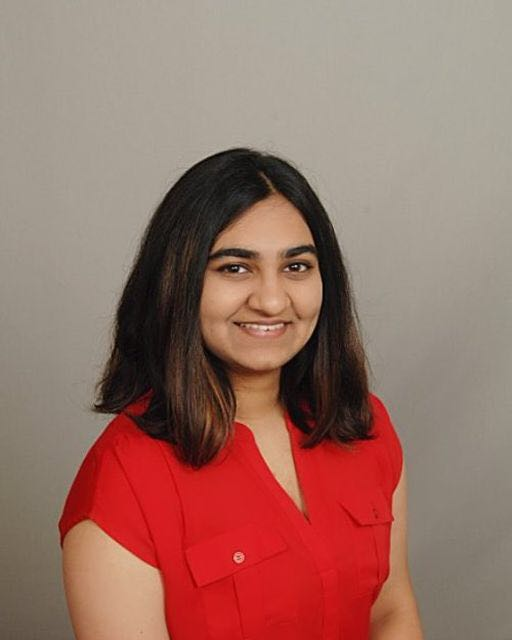
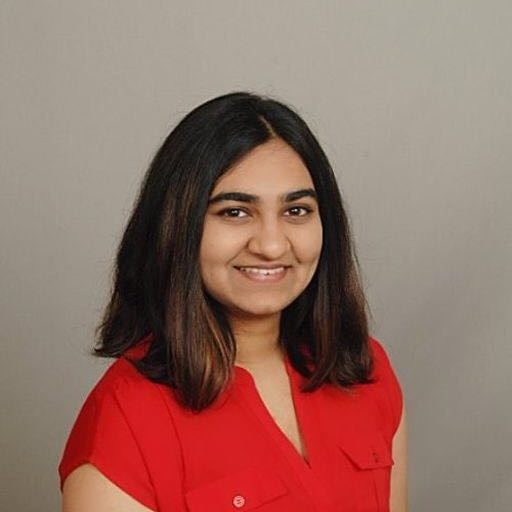
Updating PARTIEEE officer for 2018 (#134)

diff --git a/partieee/index.php b/partieee/index.php
@@ -32,15 +32,27 @@
         include 'navigation.php';
     ?>
     <div class="well card-1 text-light">
-
         <div class="row text-center">
             <h1 id="mission">Mission</h1>
             <hr />
-			<p>The Purdue Aerial Robotics Team IEEE was founded back in 1996 as a committee within the Purdue IEEE Student Organization. The team's mission is to create an Unmanned Aerial System (UAS) to compete in the Association for Unmanned Vehicle Systems International Student Unmanned Air Systems (AUVSI SUAS) Competition. This competition will take place in Webster Field, Maryland in 2018. The team, consisting of AeroMechanical, Electrical, and Software sub-teams, develops a comprehensive system that performs various autonomous tasks.
+			<p>The Purdue Aerial Robotics Team IEEE was founded back in 1996 as a committee within the Purdue IEEE
+                Student Organization. The team's mission is to create an Unmanned Aerial System (UAS) to compete in the
+                Association for Unmanned Vehicle Systems International Student Unmanned Air Systems (AUVSI SUAS)
+                Competition. This competition will take place in Webster Field, Maryland in 2018. The team, consisting
+                of AeroMechanical, Electrical, and Software sub-teams, develops a comprehensive system that performs
+                various autonomous tasks.
 			<br /><br />
-			The Aerial Robotics Team consists of both engineering and non-engineering focuses. The engineering goals are to create mathematical and physical models, construct prototypes, and develop a final, mission-ready system. The non-engineering goals are to develop relationships with companies, encourage a collaborative work environment, communicate effectively with team members, and provide learning opportunities for students of any discipline and experience level. Achieving these goals will help us develop a UAS that meets the rigorous standards demanded by the competition, in order to succeed as a team.
+			The Aerial Robotics Team consists of both engineering and non-engineering focuses. The engineering goals are
+                to create mathematical and physical models, construct prototypes, and develop a final, mission-ready
+                system. The non-engineering goals are to develop relationships with companies, encourage a collaborative
+                work environment, communicate effectively with team members, and provide learning opportunities for
+                students of any discipline and experience level. Achieving these goals will help us develop a UAS that
+                meets the rigorous standards demanded by the competition, in order to succeed as a team.
 			<br /><br />
-			Purdue Aerial Robotics Team prides itself on its student leadership, perseverance, and desire to excel in all frontiers. Furthermore, team members are constantly striving to learn the technical skills necessary to bring the design to fruition, including 3D-modeling in SolidWorks and CATIA V5, designing the PCB in Eagle Pro, and programming in C, C++, Python, and JavaScript. 
+			Purdue Aerial Robotics Team prides itself on its student leadership, perseverance, and desire to excel in
+                all frontiers. Furthermore, team members are constantly striving to learn the technical skills necessary
+                to bring the design to fruition, including 3D-modeling in SolidWorks and CATIA V5, designing the PCB in
+                Eagle Pro, and programming in C, C++, Python, and JavaScript.
 			</p>
         </div>
     </div>
@@ -50,10 +62,10 @@
             <hr />
             <div class="row text-center">
                 <!--Ellie-->
-                <img src="images/ellie-topi.jpg" alt= "" class="img-circle" width=250px height=250px />
-                <h4>Ellie Topi</h4>
+                <img src="../images/officers/2018_Bidare_Milan.jpg" alt= "" class="img-circle" width=250px height=250px />
+                <h4>Milan Bidare</h4>
                 <p>Captain</p>
-                <p><a href="mailto:etopi@purdue.edu"> etopi@purdue.edu</a><br /></p>
+                <p><a href="mailto:mbidare@purdue.edu">mbidare@purdue.edu</a><br /></p>
             </div>
         </div>
     </div>

diff --git a/partieee/about.php b/partieee/about.php
@@ -23,56 +23,36 @@
                 <h1 id="officers">Officers</h1>
                 <hr />
                 <div class="row">
-                    <!--Ellie-->
                     <div class= "col-md-4">
-                        <h4>Ellie Topi</h4>
+                        <h4>Milan Bidare</h4>
                         <p>Captain<br /><br /></p>
                     </div>
-                    <!--Erik-->
-                        <div class= "col-md-4">
-                        <h4>Erik VanderWerf</h4>
-                        <p>Vice-Captain<br /> <br /></p>
-                    </div>
-                    <!--Anthony-->
                     <div class= "col-md-4">
-                        <h4>Anthony Goeckner</h4>
+                        <h4>Mark Benati</h4>
                         <p>Vice-Captain<br /><br /></p>
+                    </div>
+                    <div class="col-md-4">
+                        <h4>Humza Nasir</h4>
+                        <p>Project Lead<br /><br /></p>
                     </div>
                 </div>
                 <br />
                 <div class="row">
-                    <!-- Milan -->
                     <div class= "col-md-4">
-                        <h4>Milan Bidare</h4>
+                        <h4>Jacob Cottrell</h4>
                         <p>Sponsorship Coordinator<br /><br /></p>
                     </div>
-                    <!--Patrick-->
-                    <div class= "col-md-4">
-                        <h4>Patrick May</h4>
-                        <p>Electrical Co-Lead<br /><br /></p>
-                    </div>
-                    <!--Brian-->
                     <div class= "col-md-4">
                         <h4>Brian Helfrecht</h4>
-                        <p>Electrical Co-Lead<br /><br /></p>
+                        <p>Electrical Lead<br /><br /></p>
                     </div>
-                </div>
-                    <br />
-                <div class="row">
-                    <!--Mark -->
-                        <div class= "col-md-4">
-                        <h4>Mark Benati </h4>
+                    <div class= "col-md-4">
+                        <h4>Chris Jovanovic</h4>
                         <p>Software Lead<br /><br /></p>
                     </div>
-                    <!--Landon-->
-                        <div class= "col-md-4">
-                        <h4>Landon Glunt</h4>
-                        <p>AeroMechanical Co-Lead<br /><br /></p>
-                    </div>
-                    <!--George Xu-->
                     <div class= "col-md-4">
-                        <h4>George Xu</h4>
-                        <p>AeroMechanical Co-Lead<br /><br /></p>
+                        <h4>Prateek Chamakura</h4>
+                        <p>AeroMechanical Lead<br /><br /></p>
                     </div>
                 </div>
 
